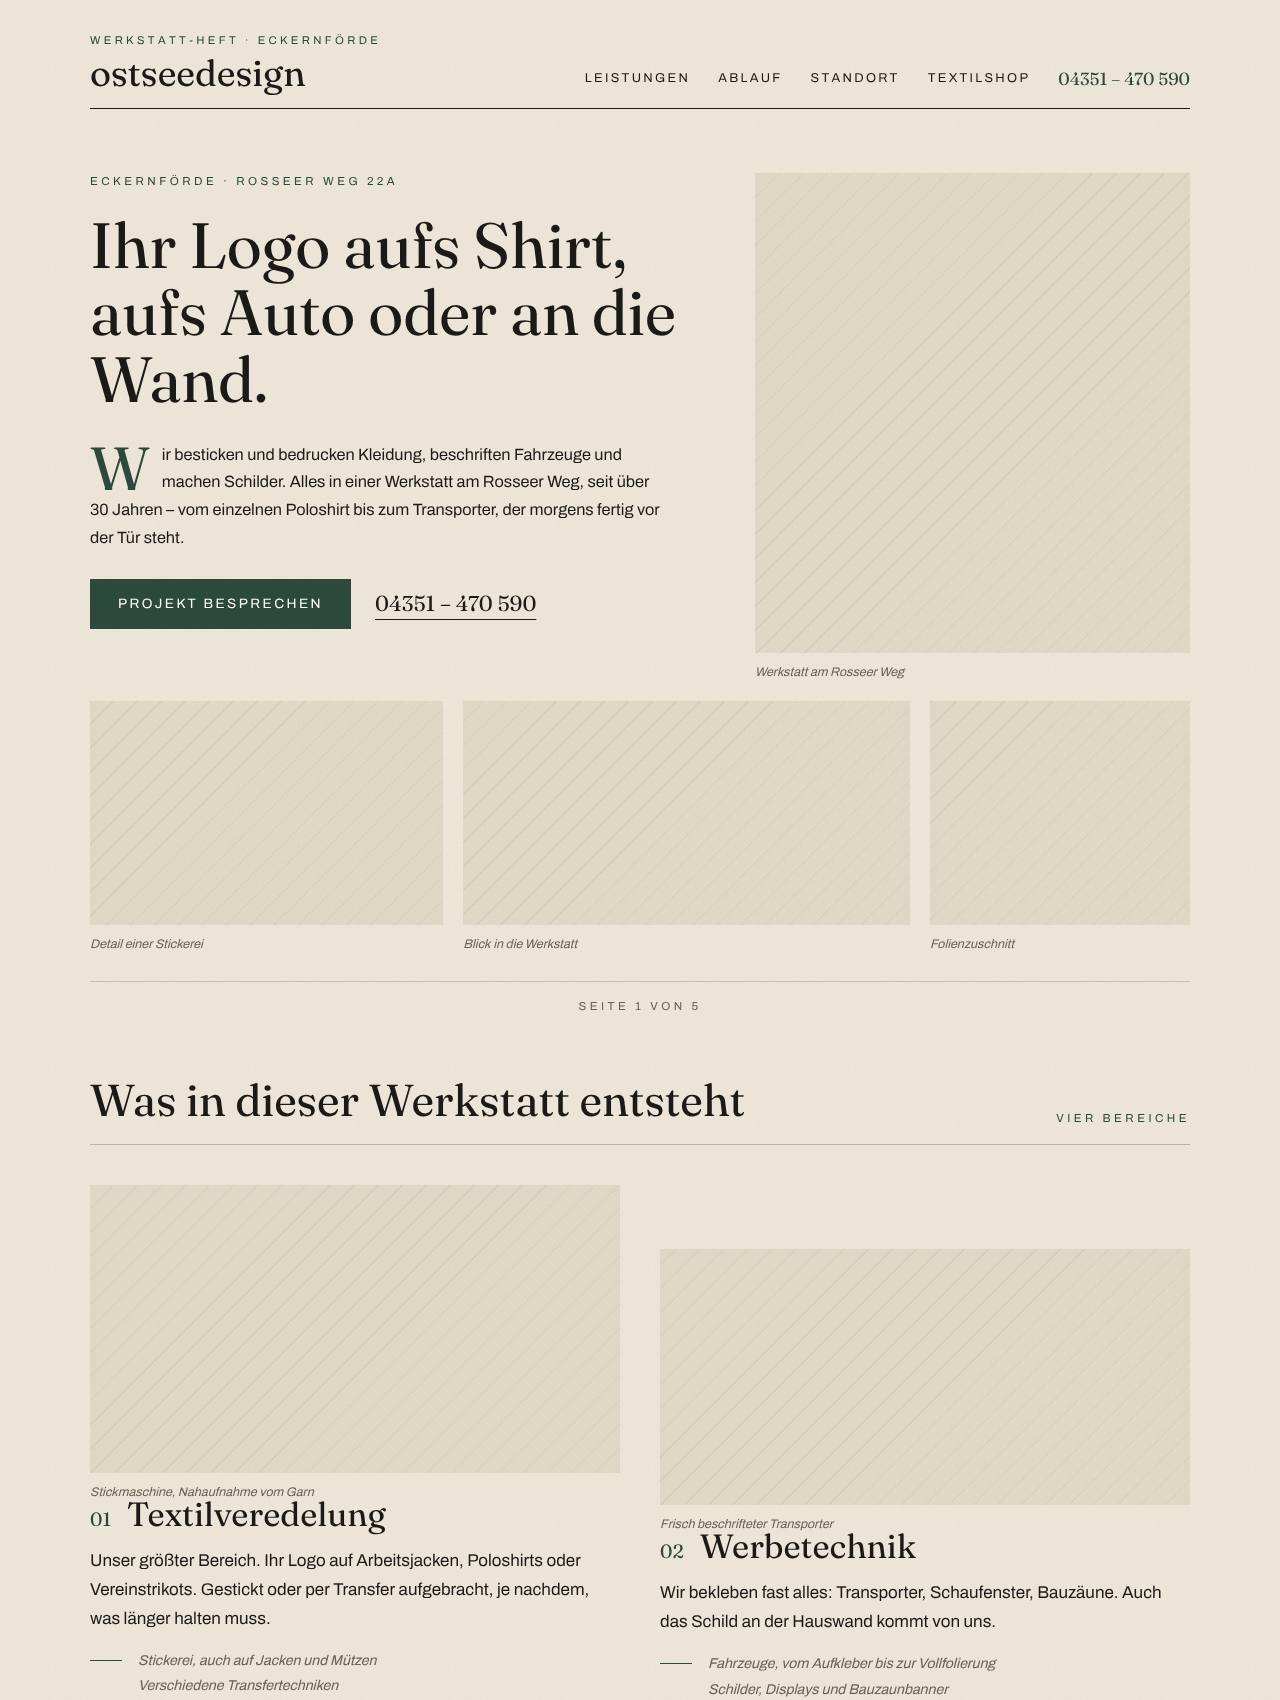
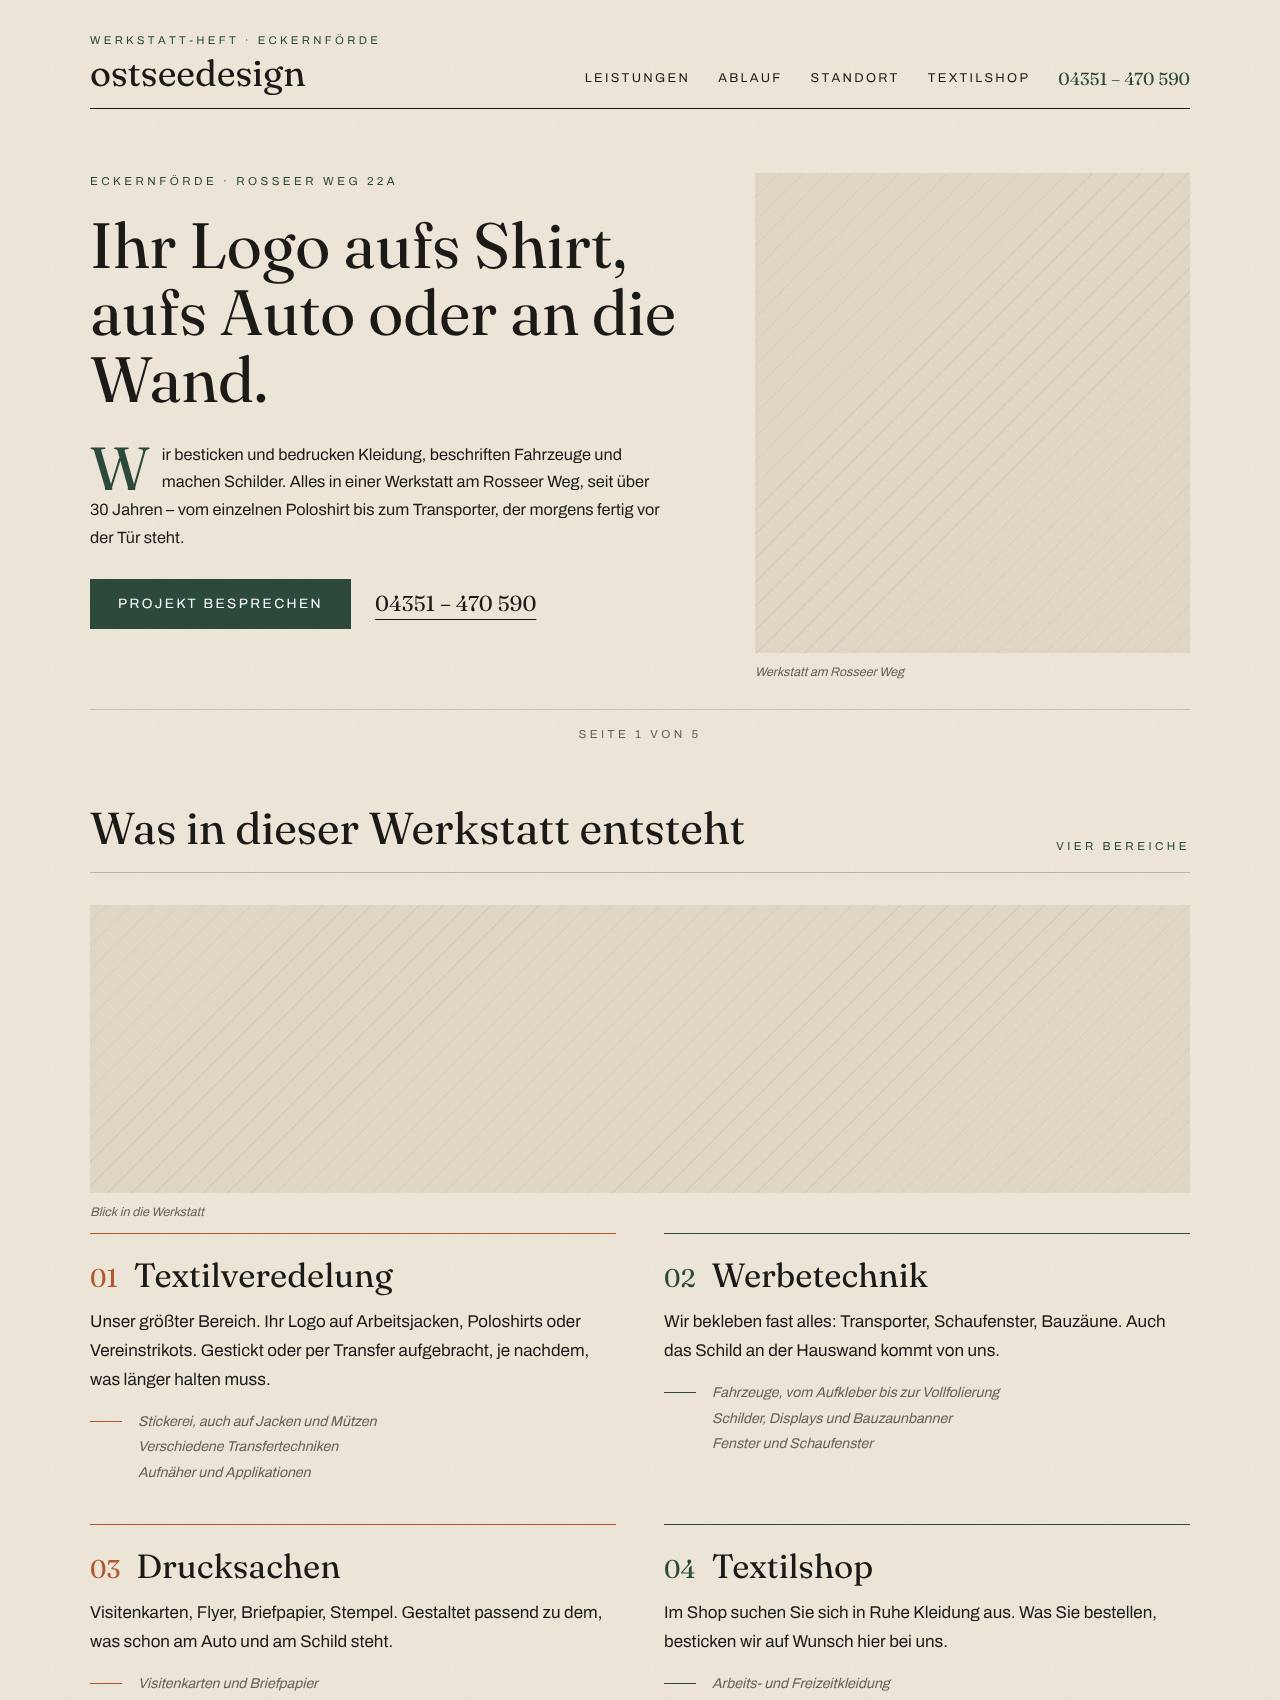
Entwurf 2 mit weniger Bildern, Entwurf 1 und 2 mit mehr Farbe
Entwurf 2 „Atelier"
- Statt neun Bildern nur noch zwei: eins im Aufmacher, eins als breites
  Band über den Leistungen. Bildstrecke und Standort-Bild sind raus.
- Gegliedert wird jetzt mit Farbe statt mit Fotos: der Ablauf liegt auf
  einer rostfarbenen Fläche, die Öffnungszeiten auf einer grünen.
- Zweite Akzentfarbe (gebranntes Rotbraun) kommt dazu: Ziffern und
  Trennlinien der Leistungen wechseln zwischen Rost und Grün, die
  Ablauf-Ziffern stehen in Rost.
- Leistungen jetzt als zweispaltige Liste mit farbiger Linie über jedem
  Eintrag – ohne Einzelbilder.

Entwurf 1 „Werkstatt-Druckbogen"
- Die Druckfarbe wird jetzt auch als ganze Fläche gedruckt: der Abschnitt
  „So läuft das" steht auf hellem Zinnober (neuer Ton --mark-soft).
- Hauptschaltflächen, Fortschrittsbalken, Striche in den Listen, die
  Linie über den Öffnungszeiten und die erste Trennlinie der Leistungen
  jetzt in der Druckfarbe.
- Neue Klasse .btn-mark für Schaltflächen in der Druckfarbe.

Auswahlseite, DESIGN.md und Vorschaubilder nachgezogen.

Claude-Session: https://claude.ai/code/session_0171ck9XiJE1Gexnh96PGEx6

diff --git a/src/app/entwurf-2/page.tsx b/src/app/entwurf-2/page.tsx
@@ -37,6 +37,12 @@ const LEINEN = "#efe7da";
 const TINTE = "#1c1a16";
 const GRUEN = "#2c4a3b";
 const LEISE = "#6b6256";
+// Zweite Akzentfarbe: gebranntes Rotbraun. Grün führt, Rost setzt die
+// Zahlen und kleinen Marken – zusammen wirkt das Heft farbiger, ohne bunt
+// zu werden.
+const ROST = "#b4572e";
+const ROST_HELL = "#f3e3d6";
+const GRUEN_HELL = "#e3e8e1";
 const FLAECHE = "#e3d9c7";
 
 const notes: Record<string, string> = {
@@ -193,24 +199,6 @@ export default function Entwurf2Page() {
             </div>
           </section>
 
-          {/* ── Bildstrecke über die volle Breite ─────────────────────── */}
-          <section className="mt-12">
-            <div className="grid gap-5 sm:grid-cols-12">
-              <Bild
-                note="Detail einer Stickerei"
-                className="h-44 sm:col-span-4 sm:h-56"
-              />
-              <Bild
-                note="Blick in die Werkstatt"
-                className="h-44 sm:col-span-5 sm:h-56"
-              />
-              <Bild
-                note="Folienzuschnitt"
-                className="h-44 sm:col-span-3 sm:h-56"
-              />
-            </div>
-          </section>
-
           <Seitenzahl nr={1} />
 
           {/* ── Leistungen: versetztes Doppelraster ───────────────────── */}
@@ -225,20 +213,24 @@ export default function Entwurf2Page() {
               </p>
             </div>
 
-            <div className="mt-10 grid gap-x-10 gap-y-12 sm:grid-cols-2">
+            {/* Ein einziges breites Bild für den ganzen Abschnitt. */}
+            <Bild
+              note="Blick in die Werkstatt"
+              className="mt-8 h-52 sm:h-72"
+            />
+
+            <div className="mt-10 grid gap-x-12 gap-y-10 sm:grid-cols-2">
               {services.map((service, i) => (
                 <article
                   key={service.id}
-                  /* Die rechte Spalte beginnt tiefer – wie im Heft. */
-                  className={i % 2 === 1 ? "sm:mt-16" : undefined}
+                  className="border-t pt-5"
+                  style={{ borderColor: i % 2 === 0 ? ROST : GRUEN }}
                 >
-                  <Bild
-                    note={notes[service.id]}
-                    className={i % 2 === 0 ? "h-60 sm:h-72" : "h-56 sm:h-64"}
-                  />
-
-                  <div className="mt-5 flex items-baseline gap-4">
-                    <span className="font-fraunces text-[1.2rem]" style={{ color: GRUEN }}>
+                  <div className="flex items-baseline gap-4">
+                    <span
+                      className="font-fraunces text-[1.6rem] leading-none"
+                      style={{ color: i % 2 === 0 ? ROST : GRUEN }}
+                    >
                       {String(i + 1).padStart(2, "0")}
                     </span>
                     <h3 className="font-fraunces text-[clamp(1.5rem,3vw,2.1rem)] leading-tight">
@@ -253,7 +245,7 @@ export default function Entwurf2Page() {
                     <span
                       aria-hidden="true"
                       className="mt-2.5 h-px w-8 shrink-0"
-                      style={{ backgroundColor: GRUEN }}
+                      style={{ backgroundColor: i % 2 === 0 ? ROST : GRUEN }}
                     />
                     <ul className="space-y-1 text-[0.88rem] italic" style={{ color: LEISE }}>
                       {service.points.map((point) => (
@@ -278,7 +270,7 @@ export default function Entwurf2Page() {
             </div>
           </section>
 
-            <Seitenzahl nr={2} />
+          <Seitenzahl nr={2} />
           </div>
 
         {/* ── Zitat auf grünem Band, volle Breite ─────────────────────── */}
@@ -299,6 +291,12 @@ export default function Entwurf2Page() {
           <div className="mx-auto w-full max-w-[1180px] px-6 sm:px-10">
           {/* ── Ablauf in vier Zeitungsspalten ────────────────────────── */}
           <section id="ablauf" className="scroll-mt-16 pt-14">
+            {/* Farbige Fläche statt Bild: der Abschnitt hebt sich ab, ohne
+                dass ein weiteres Foto nötig wäre. */}
+            <div
+              className="px-6 py-10 sm:px-10 sm:py-14"
+              style={{ backgroundColor: ROST_HELL }}
+            >
             <div className="flex flex-wrap items-end justify-between gap-6 border-b pb-4"
                  style={{ borderColor: "rgba(28,26,22,0.25)" }}>
               <h2 className="font-fraunces text-[clamp(1.8rem,4vw,2.8rem)] leading-tight">
@@ -314,7 +312,7 @@ export default function Entwurf2Page() {
                 <li key={step.id}>
                   <p
                     className="font-fraunces text-[2.6rem] leading-none"
-                    style={{ color: GRUEN }}
+                    style={{ color: ROST }}
                   >
                     {String(i + 1).padStart(2, "0")}
                   </p>
@@ -333,6 +331,7 @@ export default function Entwurf2Page() {
                 </li>
               ))}
             </ol>
+            </div>
           </section>
 
           <Seitenzahl nr={3} />
@@ -351,10 +350,6 @@ export default function Entwurf2Page() {
 
             <div className="mt-10 grid gap-10 lg:grid-cols-12">
               <div className="lg:col-span-6">
-                <Bild note="Die Werkstatt von außen" className="h-64 sm:h-80" />
-              </div>
-
-              <div className="lg:col-span-6">
                 <p className="font-fraunces text-[clamp(1.8rem,4vw,2.8rem)] leading-[1.15]">
                   {company.street}
                   <br />
@@ -366,7 +361,16 @@ export default function Entwurf2Page() {
                   Fahrzeuge fahren auf den Hof.
                 </p>
 
-                <dl className="mt-8 border-t" style={{ borderColor: TINTE }}>
+              </div>
+
+              <div
+                className="px-6 py-8 sm:px-8 lg:col-span-5 lg:col-start-8"
+                style={{ backgroundColor: GRUEN_HELL }}
+              >
+                <p className="text-[0.72rem] uppercase tracking-[0.3em]" style={{ color: GRUEN }}>
+                  Öffnungszeiten
+                </p>
+                <dl className="mt-5 border-t" style={{ borderColor: TINTE }}>
                   {openingHours.map((row) => (
                     <div
                       key={row.days}

diff --git a/src/components/sections/Process.tsx b/src/components/sections/Process.tsx
@@ -64,11 +64,11 @@ export default function Process() {
   }, []);
 
   return (
-    <section id="ablauf" className="bg-paper-deep pb-16 pt-16 sm:pb-24 sm:pt-20">
+    <section id="ablauf" className="bg-mark-soft pb-16 pt-16 sm:pb-24 sm:pt-20">
       <div className="wrap">
         {/* Kapitelkopf. Bleibt auf großen Bildschirmen oben stehen, während
             man durch die Schritte scrollt. */}
-        <div className="lg:sticky lg:top-0 lg:z-20 lg:bg-paper-deep lg:pb-6 lg:pt-24">
+        <div className="lg:sticky lg:top-0 lg:z-20 lg:bg-mark-soft lg:pb-6 lg:pt-24">
           <div className="grid12 border-t border-ink pt-4">
             <p className="col-span-4 text-[0.72rem] font-semibold uppercase tracking-label text-mark lg:col-span-1">
               02
@@ -98,7 +98,7 @@ export default function Process() {
                 style={{ zIndex: i + 1 }}
               >
                 <article
-                  className="border-t border-ink bg-paper-deep pb-7 pt-5 transition-all duration-700 ease-werk lg:bg-transparent"
+                  className="border-t border-mark bg-mark-soft pb-7 pt-5 transition-all duration-700 ease-werk lg:bg-transparent"
                   style={{
                     transform: shown[i] ? "translateY(0)" : "translateY(2rem)",
                     opacity: shown[i] ? 1 : 0,
@@ -126,7 +126,7 @@ export default function Process() {
                       >
                         <span
                           aria-hidden="true"
-                          className="h-px w-5 shrink-0 translate-y-[-0.3rem] bg-ink"
+                          className="h-px w-5 shrink-0 translate-y-[-0.3rem] bg-mark"
                         />
                         {point}
                       </li>
@@ -167,9 +167,9 @@ export default function Process() {
                 <span className="display-lite text-[0.95rem] tabular-nums">
                   {String(active + 1).padStart(2, "0")} / {String(processSteps.length).padStart(2, "0")}
                 </span>
-                <span className="relative h-px flex-1 bg-ink/20" aria-hidden="true">
+                <span className="relative h-px flex-1 bg-mark/25" aria-hidden="true">
                   <span
-                    className="absolute inset-y-0 left-0 bg-ink transition-[width] duration-500 ease-werk"
+                    className="absolute inset-y-0 left-0 bg-mark transition-[width] duration-500 ease-werk"
                     style={{
                       width: `${((active + 1) / processSteps.length) * 100}%`,
                       height: "2px",
@@ -179,7 +179,7 @@ export default function Process() {
                 </span>
               </div>
 
-              <Link href="/#kontakt" className="btn-line mt-7">
+              <Link href="/#kontakt" className="btn-mark mt-7">
                 Termin ausmachen
                 <ArrowIcon className="h-4 w-4" />
               </Link>
@@ -189,7 +189,7 @@ export default function Process() {
 
         {/* Auf kleinen Bildschirmen steht der Knopf unter den Schritten. */}
         <div className="mt-10 border-t border-ink pt-8 lg:hidden">
-          <Link href="/#kontakt" className="btn-ink w-full">
+          <Link href="/#kontakt" className="btn-mark w-full">
             Termin ausmachen
             <ArrowIcon className="h-4 w-4" />
           </Link>

diff --git a/src/components/sections/Services.tsx b/src/components/sections/Services.tsx
@@ -106,7 +106,7 @@ export default function Services() {
                       "aria-label": `${service.title} – Shop im neuen Fenster öffnen`,
                     }
                   : {})}
-                className={`group grid12 items-center border-t border-rule py-8 transition-[transform,opacity] duration-700 ease-werk first:border-ink sm:py-9 lg:py-12 ${
+                className={`group grid12 items-center border-t border-rule py-8 transition-[transform,opacity] duration-700 ease-werk first:border-mark sm:py-9 lg:py-12 ${
                   service.external ? "cursor-pointer" : ""
                 }`}
                 style={{
@@ -145,7 +145,7 @@ export default function Services() {
                   <ul className="mt-4 hidden flex-wrap gap-x-5 gap-y-1 text-[0.85rem] text-ink-soft lg:flex">
                     {service.points.map((point) => (
                       <li key={point} className="flex items-center gap-2">
-                        <span aria-hidden="true" className="h-px w-4 bg-ink/40" />
+                        <span aria-hidden="true" className="h-px w-4 bg-mark" />
                         {point}
                       </li>
                     ))}

diff --git a/src/components/sections/FindUs.tsx b/src/components/sections/FindUs.tsx
@@ -30,7 +30,7 @@ export default function FindUs() {
         <div className="grid12 mt-12 gap-y-12 sm:mt-16">
           {/* Anschrift, groß gesetzt wie ein Schild an der Wand. */}
           <div className="col-span-4 lg:col-span-6">
-            <p className="text-[0.72rem] uppercase tracking-label text-ink-soft">
+            <p className="text-[0.72rem] uppercase tracking-label text-mark">
               Werkstatt &amp; Laden
             </p>
             {/* Anschrift wie ein Schild: zweizeilig, die Stadt etwas leiser. */}
@@ -71,7 +71,7 @@ export default function FindUs() {
               ))}
             </dl>
 
-            <p className="mt-10 text-[0.72rem] uppercase tracking-label text-ink-soft">
+            <p className="mt-10 text-[0.72rem] uppercase tracking-label text-mark">
               Öffnungszeiten
             </p>
             <dl className="mt-3 border-t border-ink">

diff --git a/src/components/sections/Hero.tsx b/src/components/sections/Hero.tsx
@@ -57,7 +57,7 @@ export default function Hero() {
             </p>
 
             <div className="mt-8 flex flex-wrap items-center gap-x-7 gap-y-4">
-              <Link href="/#kontakt" className="btn-ink">
+              <Link href="/#kontakt" className="btn-mark">
                 Projekt besprechen
                 <ArrowIcon className="h-4 w-4" />
               </Link>
@@ -78,7 +78,7 @@ export default function Hero() {
               Seit über {company.yearsExperience} Jahren
             </span>
 
-            <dl className="mt-7 border-t border-ink pt-3 text-[0.9rem]">
+            <dl className="mt-7 border-t border-mark pt-3 text-[0.9rem]">
               {openingHours.map((row) => (
                 <div
                   key={row.days}

diff --git a/src/app/globals.css b/src/app/globals.css
@@ -33,6 +33,8 @@
      diese beiden Werte ändern – alles andere zieht nach. */
   --mark: #c8341f;
   --mark-dark: #a52a17;
+  /* Dieselbe Farbe dünn gedruckt – als Fläche für ganze Abschnitte. */
+  --mark-soft: #f7e5e0;
 }
 
 html {
@@ -176,6 +178,9 @@ body::after {
   }
   .btn-ink {
     @apply btn bg-ink text-paper hover:bg-ink-soft;
+  }
+  .btn-mark {
+    @apply btn bg-mark text-paper hover:bg-mark-dark;
   }
   .btn-line {
     @apply btn border border-ink text-ink hover:bg-ink hover:text-paper;

diff --git a/src/app/page.tsx b/src/app/page.tsx
@@ -38,8 +38,8 @@ const entwuerfe = [
     name: "Atelier",
     satz: "Soll sich lesen wie eine Zeitschrift über Handwerk.",
     merkmale: [
-      "Leinenpapier und Tiefgrün, Serifenschrift",
-      "Bildstrecken, Initial, Randnotizen, Zitat auf grünem Band",
+      "Leinenpapier, Tiefgrün und Rost, Serifenschrift",
+      "Nur zwei Bilder – gegliedert wird mit Farbflächen",
       "Versetzte Spalten und Seitenzahlen – gebaut wie ein Heft",
     ],
   },

diff --git a/tailwind.config.ts b/tailwind.config.ts
@@ -41,6 +41,7 @@ const config: Config = {
         mark: {
           DEFAULT: "var(--mark)",
           dark: "var(--mark-dark)",
+          soft: "var(--mark-soft)", // dünn gedruckte Fläche
         },
       },
       fontFamily: {

diff --git a/DESIGN.md b/DESIGN.md
@@ -7,8 +7,8 @@ Gestaltungen nebeneinander, jede liegt auf einer eigenen Unterseite.
 
 | | Adresse | Leitsatz | Schrift | Farbe | Form |
 | --- | --- | --- | --- | --- | --- |
-| **1 Werkstatt-Druckbogen** | `/entwurf-1` | wie ein Druckbogen aus der eigenen Werkstatt | Bricolage Grotesque + Hanken Grotesk | Papier, Tinte, **Zinnoberrot** (Zweifarbendruck) | kantig, 0 px |
-| **2 Atelier** | `/entwurf-2` | wie eine Zeitschrift über Handwerk | Fraunces + Archivo | Leinen, Tinte, **Tiefgrün** | Rechtecke, keine Rundung |
+| **1 Werkstatt-Druckbogen** | `/entwurf-1` | wie ein Druckbogen aus der eigenen Werkstatt | Bricolage Grotesque + Hanken Grotesk | Papier, Tinte, **Zinnoberrot** – auch als ganze Fläche | kantig, 0 px |
+| **2 Atelier** | `/entwurf-2` | wie eine Zeitschrift über Handwerk | Fraunces + Archivo | Leinen, **Tiefgrün + Rost**, farbige Flächen | Rechtecke, keine Rundung |
 | **3 Farbfächer** | `/entwurf-3` | wie der Farbfächer an der Werkstattwand | Schibsted Grotesk | Weiß + **vier Werkstattfarben** | rund, 32 px und Kreise |
 
 Jeder Entwurf hat außerdem **eigene Bausteine**, die es in den anderen nicht
@@ -17,7 +17,7 @@ gibt – daran erkennt man sie auch ohne Farbe:
 | | nur hier |
 | --- | --- |
 | **1** | Laufband wie eine Laufschrift · Konturschrift („ausgestanzt") · Stempel · sichtbare Rasterlinien · Papierkörnung · Schritte, die beim Scrollen stehen bleiben |
-| **2** | Initial am Absatzanfang · Randnotizen · Zitat auf grünem Band über die volle Breite · Bildstrecke aus drei Bildern · versetztes Doppelraster · Ablauf in vier Zeitungsspalten · Seitenzahlen |
+| **2** | Initial am Absatzanfang · Randnotizen · Zitat auf grünem Band über die volle Breite · Ablauf auf rostfarbener Fläche · Zeiten auf grüner Fläche · Ablauf in vier Zeitungsspalten · Seitenzahlen · bewusst nur zwei Bilder |
 | **3** | Farbfächer-Reihe · Kreise, die sich übereinander **mischen** (wie Druckfarben) · Faden mit farbigen Punkten · Pillen statt Listen |
 
 Inhalt und Texte sind überall gleich – verglichen wird nur die Gestaltung.
